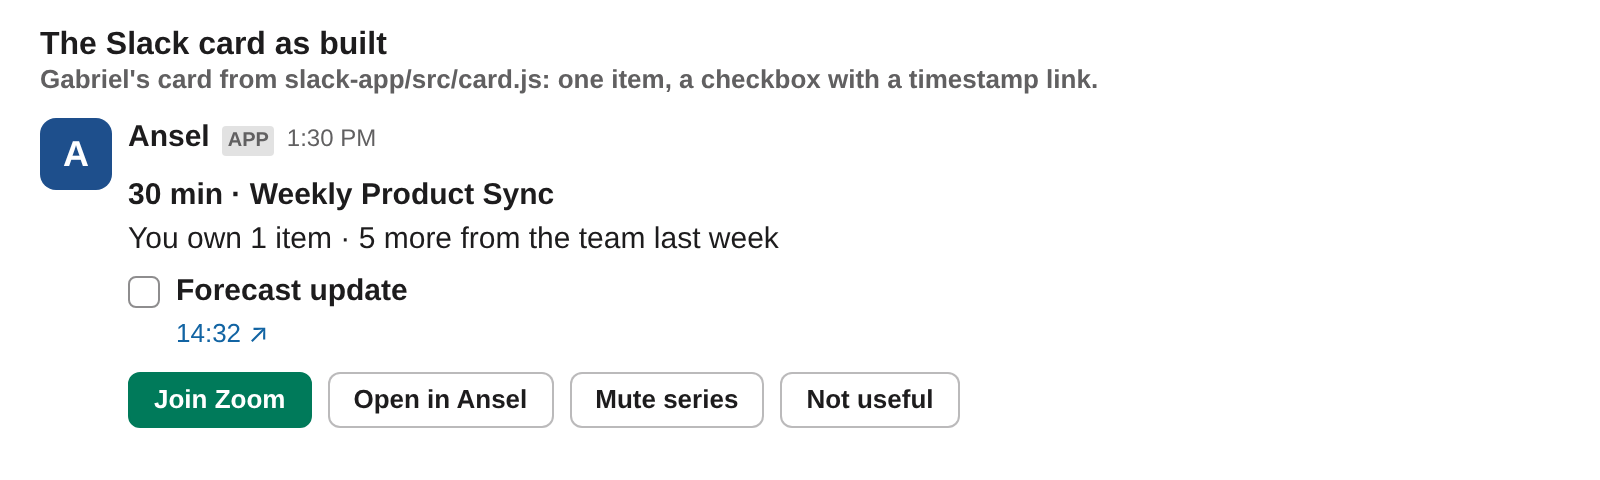
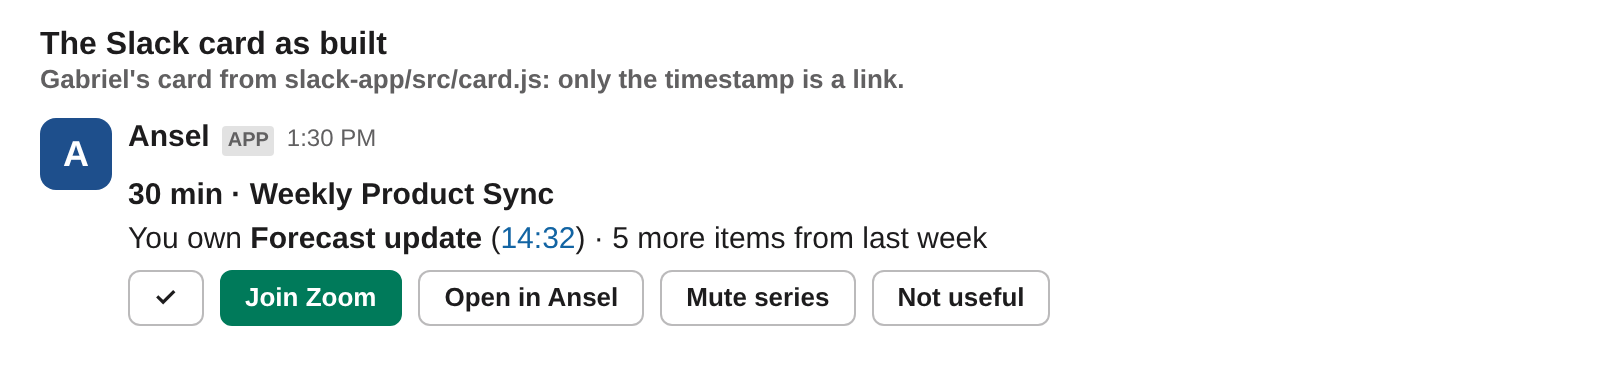
Slack card: back to the ✓ button, with a linked timestamp after your item
"You own Forecast update (14:32) · 5 more items from last week", where only
14:32 is a link (short #t/<itemId>). Several items of yours keep checkboxes
with the timestamp link as the note.

Claude-Session: https://claude.ai/code/session_01SoGk1RXc8CwLh1htLSh9WK

Changed region(s): [[0.0, 0.0582, 0.6875, 0.5529], [0.0625, 0.582, 0.6562, 0.9021]]

diff --git a/slack-app/src/card.js b/slack-app/src/card.js
@@ -1,12 +1,11 @@
 // Slack Block Kit version of the Heads-Up card, contract 2.0 data (card/CONTRACT.md), in the team's chosen
 // condensed layout (card/slack-mockups/condensed, B3 + M2): one text block and one row of buttons.
 //   *30 min · Weekly Product Sync*
-//   You own 2 items · 4 more from the team last week
-//   ☐ Forecast update        (a checkbox per item of yours, up to 3; ticked = done)
-//     14:32 ↗                (small note: link to that moment in last meeting's transcript)
-//   [Join Zoom] [Open in Ansel] [Mute series] [Not useful]
-// Slack caps checkbox labels and notes at 75 characters, link address included, so the note uses the
-// prototype's short #t/<itemId> link.
+//   You own Forecast update (14:32) · 5 more items from last week     (one item of yours; 14:32 is the link)
+//   [✓] [Join Zoom] [Open in Ansel] [Mute series] [Not useful]
+// Several items of yours: "You own 3 items · …" and a checkbox per item (up to 3; ticked = done) with the
+// timestamp link as its note. Slack caps checkbox labels and notes at 75 characters, link address included,
+// so links use the prototype's short #t/<itemId> form.
 
 export const NOT_USEFUL_REASONS = [['already_knew', 'Already knew this'], ['wrong_meeting', 'Wrong meeting'], ['bad_timing', 'Bad timing']]
 const SOON_MS = 5 * 60000
@@ -71,14 +70,22 @@ export function buildCard(entry, { nowMs = Date.now(), prototypeUrl = '' } = {})
   const plural = (n, word) => `${n} ${word}${n === 1 ? '' : 's'}`
   const fit = (text) => (text.length <= OPTION_LIMIT ? text : `${text.slice(0, OPTION_LIMIT - 1)}…`)
 
+  const stampLink = (it) => {
+    const url = shortTranscriptLink(prototypeUrl, it.id)
+    return url ? `<${url}|${fmtStamp(it.seconds)}>` : fmtStamp(it.seconds)
+  }
+
   let line
   if (mine.length === 0) line = `${plural(othersCount, 'action item')} from last week, none assigned to you`
-  else line = `You own ${plural(mine.length, 'item')}${othersCount ? ` · ${othersCount} more from the team last week` : ''}`
+  else if (mine.length === 1) {
+    const it = mine[0]
+    line = `You own ${isDone(it) ? `~${it.text}~` : `*${it.text}*`} (${stampLink(it)})${isDone(it) ? ' · _Done_' : ''}${othersCount ? ` · ${othersCount} more item${othersCount === 1 ? '' : 's'} from last week` : ''}`
+  } else line = `You own ${mine.length} items${othersCount ? ` · ${othersCount} more from the team last week` : ''}`
   if (state === 'ended') line += '\n_Meeting ended · new summary in about 6 min_'
 
   const blocks = [{ type: 'section', text: md(`*${hero} · ${m.title}*\n${line}`) }]
 
-  if (mine.length) {
+  if (mine.length > 1) {
     const shown = mine.slice(0, MAX_CHECKBOXES)
     const option = (it) => {
       const name = it.text.slice(0, OPTION_LIMIT - 4)
@@ -104,6 +111,12 @@ export function buildCard(entry, { nowMs = Date.now(), prototypeUrl = '' } = {})
   }
 
   const row = []
+  if (mine.length === 1) {
+    const it = mine[0]
+    row.push(isDone(it)
+      ? btn(`hu_done_undo:${it.id}`, '✓', meta, { style: 'primary', accessibility_label: `Done: ${it.text}. Tap to undo`.slice(0, 75) })
+      : btn(`hu_done:${it.id}`, '✓', meta, { accessibility_label: `Mark done: ${it.text}`.slice(0, 75) }))
+  }
   if (join) row.push(join)
   const summaryUrl = deepLink(prototypeUrl, { instanceId: data.lastMeeting.meetingId, tab: 'summary' })
   row.push(btn('hu_open_last', 'Open in Ansel', meta, summaryUrl ? { url: summaryUrl } : {}))

diff --git a/slack-app/README.md b/slack-app/README.md
@@ -173,22 +173,20 @@ Layout (condensed, chosen in [`../card/slack-mockups/`](../card/slack-mockups/RE
 
 ```
 30 min · Weekly Product Sync
-You own 1 item · 5 more from the team last week
-☐ Forecast update
-  14:32 ↗
-[Join Zoom] [Open in Ansel] [Mute series] [Not useful]
+You own Forecast update (14:32) · 5 more items from last week
+[✓] [Join Zoom] [Open in Ansel] [Mute series] [Not useful]
 ```
 
-Each item of yours gets a checkbox (up to 3, then "+N more of yours in Ansel"); its small note is a link to that moment in last meeting's transcript. Slack caps checkbox labels and notes at 75 characters, link address included, so the note uses the prototype's short `#t/<itemId>` link. Everything else (other people's items, Not right) is in Ansel.
+Only the timestamp is a link: it opens that moment in last meeting's transcript (the prototype's short `#t/<itemId>` link). If you own several items, the line reads "You own 3 items · …" and each item gets a checkbox (up to 3, then "+N more of yours in Ansel") with the timestamp link as its note; Slack caps checkbox labels and notes at 75 characters, link address included. Everything else (other people's items, Not right) is in Ansel.
 
 | Control | Behavior | Event |
 |---|---|---|
-| Checkbox | Ticking marks your item done (struck through); unticking undoes it | `mark_done` ★ / `mark_done_undone` |
+| ✓ (one item of yours) / checkboxes (several) | Marks your item done (struck through, ✓ turns green); tap or untick to undo | `mark_done` ★ / `mark_done_undone` |
 | Join Zoom / Join now | Opens the meeting link; the green button; removed after the meeting ends | `join_tap` (with `joinedPrepared`: true if something was marked done first) |
 | Open in Ansel | Opens last meeting's summary in the hosted prototype (default), or replies privately with the summary if `PROTOTYPE_URL=off` | `open_last_meeting` |
 | Mute series / Undo | Collapses the card to one line (Join stays) and stops future cards for the series | `mute_series` / `mute_undone` |
 | Not useful → reason / Undo | Asks "What was off?" (Already knew this, Wrong meeting, Bad timing) | `not_useful`, `not_useful_reason`, `not_useful_undone` |
-| Timestamp link under an item (e.g. 14:32 ↗) | Opens the transcript at that item | not logged (Slack doesn't report link clicks) |
+| Timestamp link, e.g. (14:32) | Opens the transcript at that item | not logged (Slack doesn't report link clicks) |
 
 Slack buttons come in three styles only (default, green, red), so Open in Ansel uses the default style.
 

diff --git a/card/slack-mockups/README.md b/card/slack-mockups/README.md
@@ -33,3 +33,5 @@ The images are approximations drawn outside Slack (stand-in font; spacing and bu
 **Built: option 3 without the quote.** A checkbox per item of yours, with a timestamp link (`#t/<itemId>`) as its note; `live-card.png` and `live-card-several.png` are the real output.
 
 **Two boxes per item** (previews, not built): `flags/F1-side-by-side.*` (the item's Done box, then a Not right box beside it, one row per item) and `flags/F2-boxes-on-right.*` (item name and timestamp link on the left, Done and Not right boxes on the right).
+
+**Current: back to the ✓ button**, with the timestamp after your item and only the timestamp linked: "You own **Forecast update** (14:32) · 5 more items from last week". Several items still get checkboxes with a timestamp link as the note. `live-card.png` is the real output.
